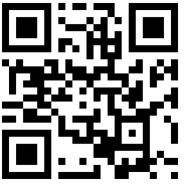
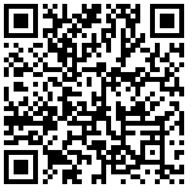
changes in QR and like
changes indeed to changing URL

diff --git a/index.html b/index.html
@@ -162,7 +162,7 @@
 <p align=right>אם אהבתם את האתר אשמח שתתנו לייק</p>
 </p>
 <br/>
-<div class="fb-like" data-href="https://git.io/JYDM1" data-width="" data-layout="standard" data-action="like" data-size="large" data-share="false"></div>
+<div class="fb-like" data-href="https://web-development-environments-2021.github.io/315618355/" data-width="" data-layout="standard" data-action="like" data-size="large" data-share="false"></div>
 <br/>
 </section>
 
@@ -255,7 +255,7 @@
     <br>
     <label align=right>אימייל:</label>
     <br>
-    <input type="email" id="email" placeholder="name@domain.com">
+    <input type="email" id="email" name=email placeholder="name@domain.com">
   </div>
   <br>
   <div align=right>
